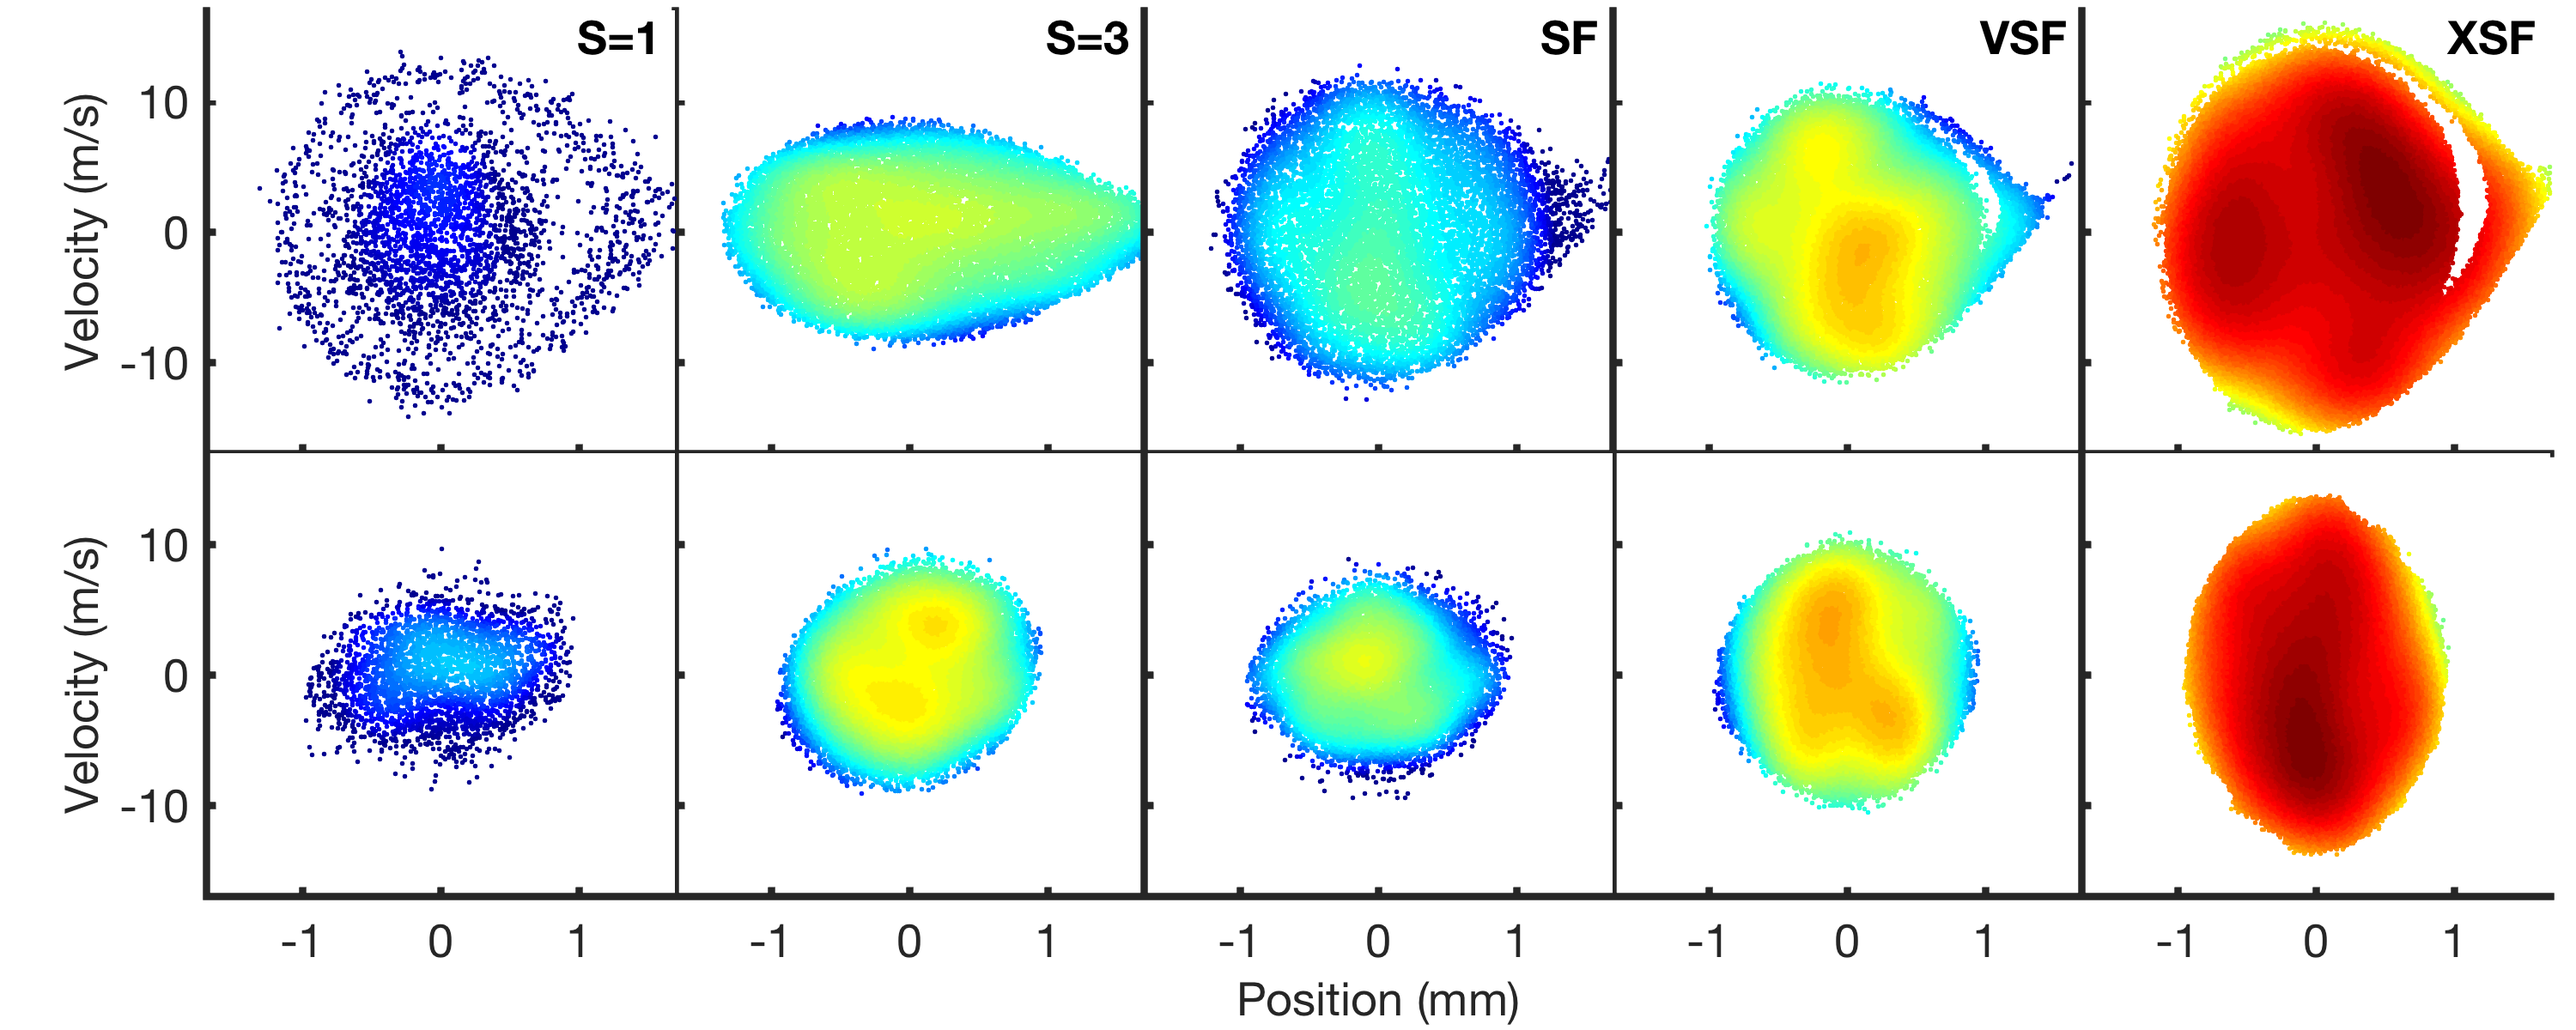
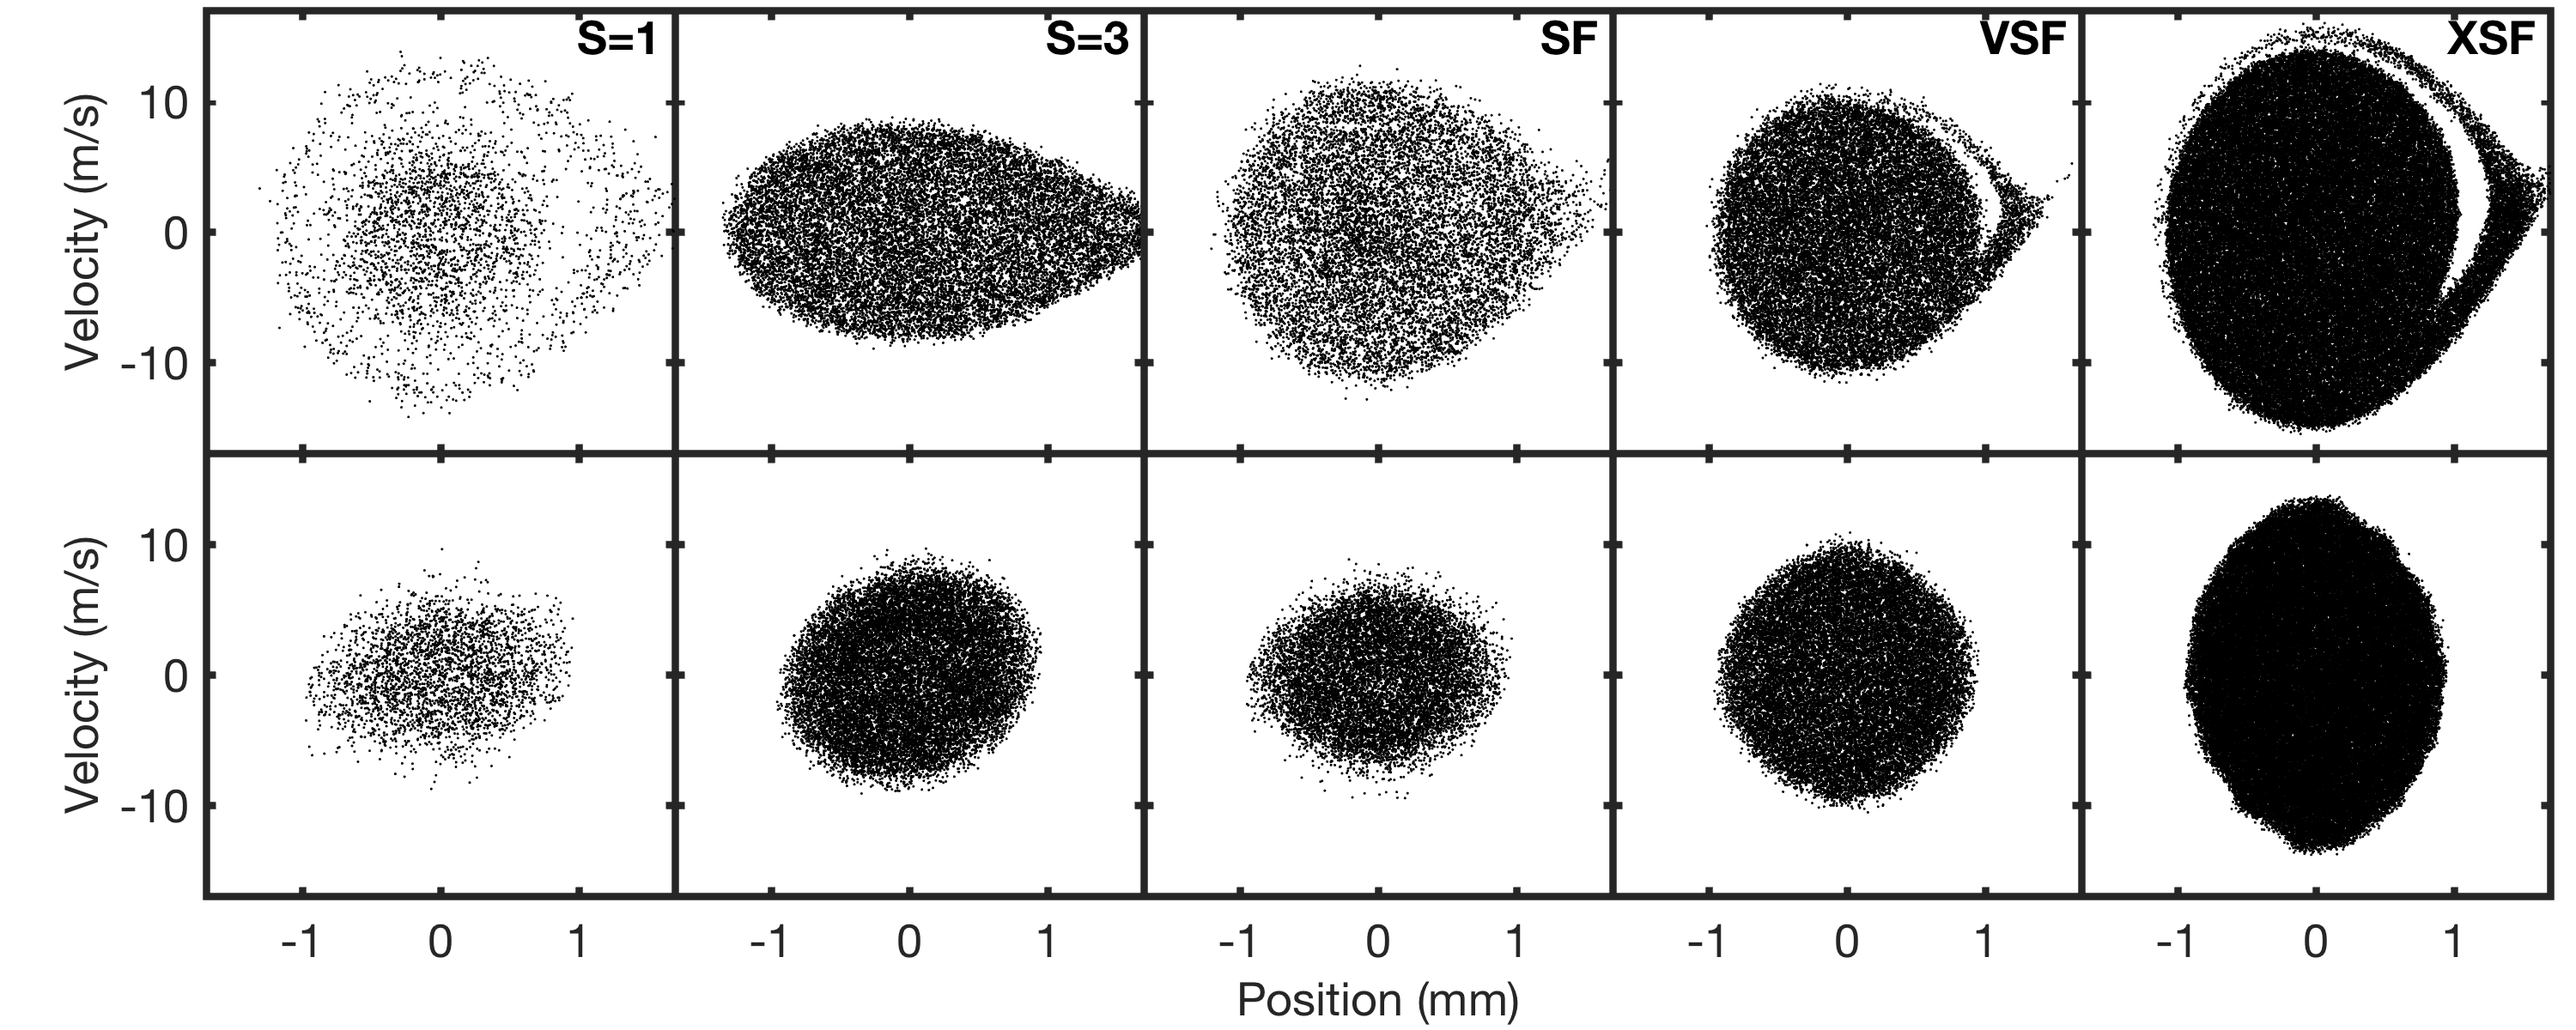
Updated script 5x2 figure.

diff --git a/modeComparePhaseSpace.m b/modeComparePhaseSpace.m
@@ -53,21 +53,27 @@ f.PaperPosition = [0 0 10 4];
 [ha, pos] = tight_subplot(2,l,0,[.13 .01],[.08 .01]);
 l = length(modes);
 nn = 100;
+colordense = false;
 big = rsall(strcmp('xsf',modes)).numleft;
 for m=modes
     i = find(strcmp(m,modes));
     s = rsall(i);
+    
     axes(ha(i));
     x = (s.pos(:,3)-s.pos(1,3))*1e3;
     y = s.vel(:,3)-s.vel(1,3);
-    c = ksdensity([x(1:nn),y(1:nn)],[x,y]);
-    c = c * s.numleft/big;
-    c = log(c);
-    scatter(x,y,2,c,'filled');
-    ca = caxis;
-    caxis([-7 ca(2)+log(big/s.numleft)])
-    %cb = colorbar;
-    %cb.Ruler.Scale = 'log';
+    if colordense
+        c = ksdensity([x(1:nn),y(1:nn)],[x,y]);
+        c = c * s.numleft/big;
+        c = log(c);
+        scatter(x,y,2,c,'filled');
+        ca = caxis;
+        caxis([-7 ca(2)+log(big/s.numleft)])
+        %cb = colorbar;
+        %cb.Ruler.Scale = 'log';
+    else
+        plot(x,y,'k.','MarkerSize',2)
+    end
     xlim([-1.7 1.7])
     ylim([-17 17])
     text(1.6,15,upper(m),'FontSize',13,'FontWeight','bold','HorizontalAlignment','right')
@@ -79,14 +85,18 @@ for m=modes
     axes(ha(i+l))
     x = s.pos(:,1)*1e3;
     y = s.vel(:,1);
-    c = ksdensity([x(1:nn),y(1:nn)],[x,y]);
-    c = c * s.numleft/big;
-    c = log(c);
-    scatter(x,y,2,c,'filled');
-    ca = caxis;
-    caxis([-7 ca(2)+log(big/s.numleft)])
-    %cb = colorbar;
-    %cb.Ruler.Scale = 'log';
+    if colordense
+        c = ksdensity([x(1:nn),y(1:nn)],[x,y]);
+        c = c * s.numleft/big;
+        c = log(c);
+        scatter(x,y,2,c,'filled');
+        ca = caxis;
+        caxis([-7 ca(2)+log(big/s.numleft)])
+        %cb = colorbar;
+        %cb.Ruler.Scale = 'log';
+    else
+        plot(x,y,'k.','MarkerSize',2)
+    end
     xlim([-1.7 1.7])
     ylim([-17 17])
     set(gca,'FontSize',13)
